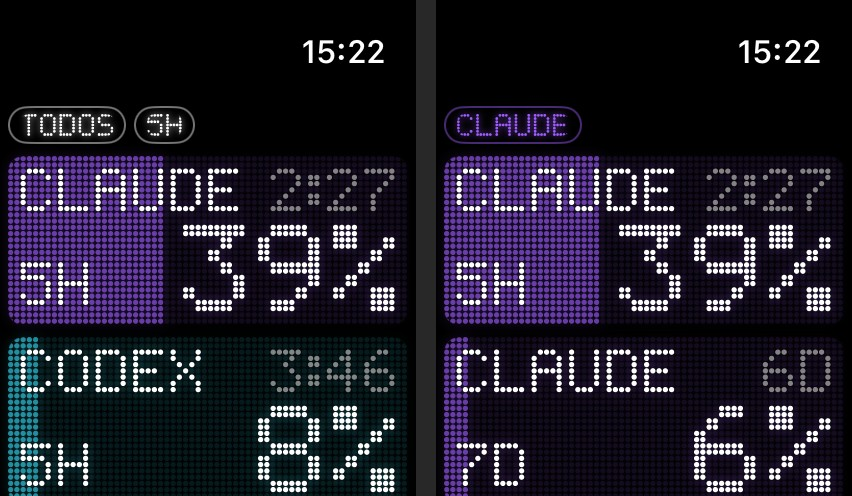
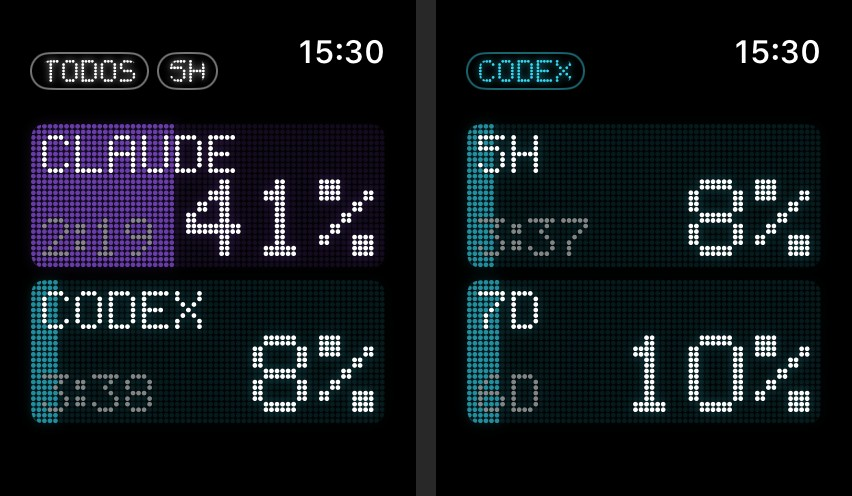
Watch: teclas na barra de cima, sem repetir o nome, tempo embaixo; coroa digital troca a IA

diff --git a/App/watchOS/WatchApp.swift b/App/watchOS/WatchApp.swift
@@ -90,27 +90,36 @@ struct WatchRootView: View {
     /// "all", "claude" ou "codex".
     @State private var agent = TB.defaults.string(forKey: "watchAgent") ?? "all"
     @State private var windowChoice = Prefs.window == "long" ? "long" : "short"
+    @State private var crown = 0.0
 
     var body: some View {
         let theme = model.theme
-        ScrollView {
-            VStack(spacing: 6) {
-                keys(theme)
-                if model.pairing == nil {
-                    Text("Pareie no app TokenBar do iPhone.").font(.footnote).foregroundStyle(.secondary)
-                }
-                TimelineView(.periodic(from: .now, by: 1)) { ctx in
-                    VStack(spacing: 6) {
-                        ForEach(panels, id: \.key) { item in
-                            WatchPanel(provider: model.snapshot.provider(item.id), providerID: item.id,
-                                       window: item.window, now: ctx.date, theme: theme)
-                                .onTapGesture { if agent == "all" { toggleWindow() } }
-                        }
+        NavigationStack {
+            TimelineView(.periodic(from: .now, by: 1)) { ctx in
+                VStack(spacing: 6) {
+                    if model.pairing == nil {
+                        Text("Pareie no app TokenBar do iPhone.").font(.footnote).foregroundStyle(.secondary)
                     }
+                    ForEach(panels, id: \.key) { item in
+                        WatchPanel(window: item.window, title: item.title, sub: item.sub, providerID: item.id,
+                                   now: ctx.date, theme: theme)
+                            .onTapGesture { if agent == "all" { toggleWindow() } }
+                    }
+                    if let e = model.error { Text(e).font(.footnote).foregroundStyle(.red) }
                 }
-                if let e = model.error { Text(e).font(.footnote).foregroundStyle(.red) }
+                .frame(maxHeight: .infinity, alignment: .top)
             }
-            .padding(.horizontal, 2)
+            // Coroa digital: girar troca TODOS → CLAUDE → CODEX.
+            .focusable()
+            .digitalCrownRotation($crown, from: 0, through: 1000, by: 1, sensitivity: .low,
+                                  isContinuous: true, isHapticFeedbackEnabled: true)
+            .onChange(of: crown) { _, v in
+                let order = ["all"] + Prefs.allProviders
+                let next = order[Int(v.rounded()) % order.count]
+                if next != agent { agent = next; TB.defaults.set(agent, forKey: "watchAgent") }
+            }
+            // As teclas ficam na barra de cima, ao lado da hora: os painéis ganham a tela toda.
+            .toolbar { ToolbarItem(placement: .topBarLeading) { keys(theme) } }
         }
         .task {
             while !Task.isCancelled {
@@ -120,16 +129,17 @@ struct WatchRootView: View {
         }
     }
 
-    /// Todas as IAs na janela escolhida; ou uma IA só com o 5H e o 7D dela.
-    private var panels: [(key: String, id: String, window: UsageWindow?)] {
+    /// Todas as IAs na janela escolhida (título = nome); ou uma IA só com o 5H e o 7D dela (título = janela).
+    private var panels: [(key: String, id: String, window: UsageWindow?, title: String, sub: String?)] {
         if agent == "all" {
             return Prefs.allProviders.map { id in
-                (id, id, Prefs.pickFrom(model.snapshot.provider(id), windowChoice))
+                let w = Prefs.pickFrom(model.snapshot.provider(id), windowChoice)
+                return (id, id, w, UsageStyle.shortName(id), w?.label.uppercased())
             }
         }
         let ws = model.snapshot.provider(agent)?.windows ?? []
-        if ws.isEmpty { return [(agent, agent, nil)] }
-        return ws.map { ("\(agent)-\($0.id)", agent, $0) }
+        if ws.isEmpty { return [(agent, agent, nil, UsageStyle.shortName(agent), nil)] }
+        return ws.map { ("\(agent)-\($0.id)", agent, $0, $0.label.uppercased(), nil) }
     }
 
     private func keys(_ theme: Theme) -> some View {
@@ -145,8 +155,6 @@ struct WatchRootView: View {
                 DotKey(text: windowChoice == "long" ? "7D" : "5H", on: true, color: theme.timer.color,
                        dot: 1.6, round: theme.roundDots, action: toggleWindow)
             }
-            // O canto direito é do relógio do sistema.
-            Spacer(minLength: 0)
         }
     }
 
@@ -157,15 +165,16 @@ struct WatchRootView: View {
     }
 }
 
-/// Um painel do relógio: nome e reset pequenos em cima; janela e % grande embaixo; o fundo enche com o gasto.
+/// Um painel do relógio: título e reset pequenos em cima; % grande embaixo; o fundo enche com o gasto.
 struct WatchPanel: View {
-    var provider: ProviderUsage?
-    var providerID: String
     var window: UsageWindow?
+    var title: String
+    var sub: String?
+    var providerID: String
     var now: Date
     var theme: Theme
 
-    static let cols = 64, rows = 27
+    static let cols = 64, rows = 26
 
     var body: some View {
         let p = window?.used(at: now) ?? 0
@@ -178,7 +187,7 @@ struct WatchPanel: View {
         }
         .aspectRatio(CGFloat(Self.cols) / CGFloat(Self.rows), contentMode: .fit)
         .accessibilityElement()
-        .accessibilityLabel("\(UsageStyle.shortName(providerID)) \(UsageStyle.percent(p))")
+        .accessibilityLabel("\(title) \(UsageStyle.percent(p))")
     }
 
     private func bitmap(_ p: Double) -> DotBitmap {
@@ -187,16 +196,14 @@ struct WatchPanel: View {
         let filled = Int((min(max(p, 0), 100) / 100 * Double(cols)).rounded())
         for x in 0..<filled { for y in 0..<rows { b.set(x, y, 1) } }
 
-        b.draw(UsageStyle.shortName(providerID), x: 2, y: 2)
-        let t = timeText
-        b.draw(t, x: cols - 2 - DotFont.width(t), y: 2, value: 3)
-
-        if let window {
-            b.draw(window.label.uppercased(), x: 2, y: 17)
+        b.draw(title, x: 2, y: 2)
+        if window != nil {
+            // Tempo embaixo à esquerda (apagado): nunca encosta no nome nem na %.
+            b.draw(timeText, x: 2, y: 17, value: 3)
             let big = "\(min(Int(p.rounded()), 999))%"
-            b.draw(big, x: cols - 2 - DotFont.width(big, scale: 2), y: 11, scale: 2)
+            b.draw(big, x: cols - 2 - DotFont.width(big, scale: 2), y: 10, scale: 2)
         } else {
-            b.drawCentered("SEM DADOS", y: 15)
+            b.drawCentered("SEM DADOS", y: 13)
         }
         return b
     }

diff --git a/README.md b/README.md
@@ -17,7 +17,7 @@ num display de LED no Mac, no iPhone e no Apple Watch.
 
 - **Mac:** um "aparelho" de LED na tela (dá para aumentar, diminuir e pôr em tela cheia), a % na barra de menu e widgets.
 - **iPhone:** abre deitado, em tela cheia, com a tela sempre acesa, para usar como relógio de mesa. Tem widgets na tela inicial e na tela bloqueada.
-- **Apple Watch:** um app e complicações no mostrador (anel, canto e linha). No app, a tecla **TODOS / CLAUDE / CODEX** escolhe ver todas as IAs ou só uma (com o 5H e o 7D dela), e **5H / 7D** troca a janela. As cores seguem as do iPhone.
+- **Apple Watch:** um app e complicações no mostrador (anel, canto e linha). No app, a tecla **TODOS / CLAUDE / CODEX** (ou girar a coroa digital) escolhe ver todas as IAs ou só uma (com o 5H e o 7D dela), e **5H / 7D** troca a janela. As cores seguem as do iPhone.
 - **Duas IAs:** Claude Code e Codex. Você escolhe qual aparecer e arrasta para o lado para trocar.
 - **Janelas:** 5 horas, 7 dias ou as duas na mesma tela.
 - **Personalização:** cor de cada IA, do texto e do tempo, pontos redondos ou quadrados, brilho e vermelho perto do limite.
